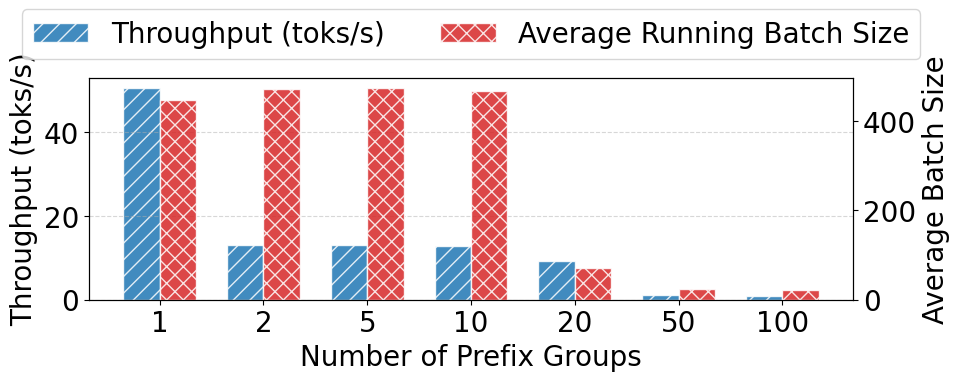
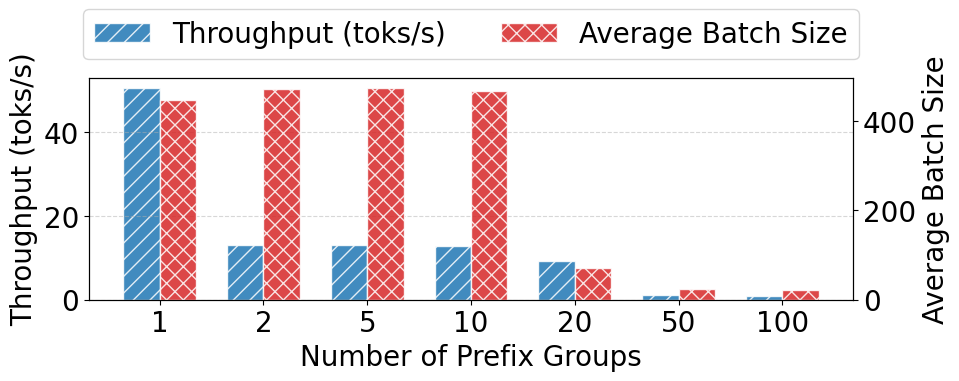
two-fam

Changed region(s): [[0.0302, 0.0577, 0.9677, 0.1444], [0.0302, 0.1444, 0.0907, 0.1732]]

diff --git a/code/vllm/logs_families_experiment/plot.py b/code/vllm/logs_families_experiment/plot.py
@@ -98,7 +98,7 @@ ax2.set_ylabel("Average Batch Size")
 
 # ── Legend placed INSIDE the plot at upper right ──────────────────────────────
 handles = [bars1, bars2]
-legend_labels = ["Throughput (toks/s)", "Average Running Batch Size"]
+legend_labels = ["Throughput (toks/s)", "Average Batch Size"]
 
 ax1.legend(
     handles,
